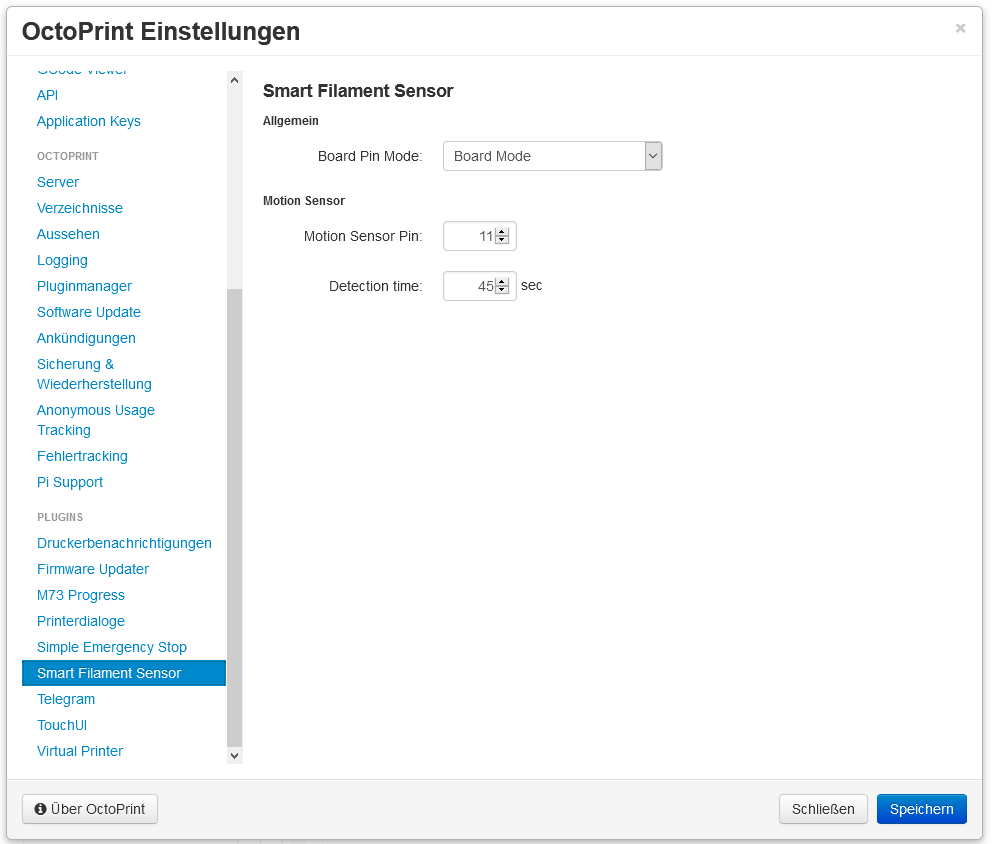
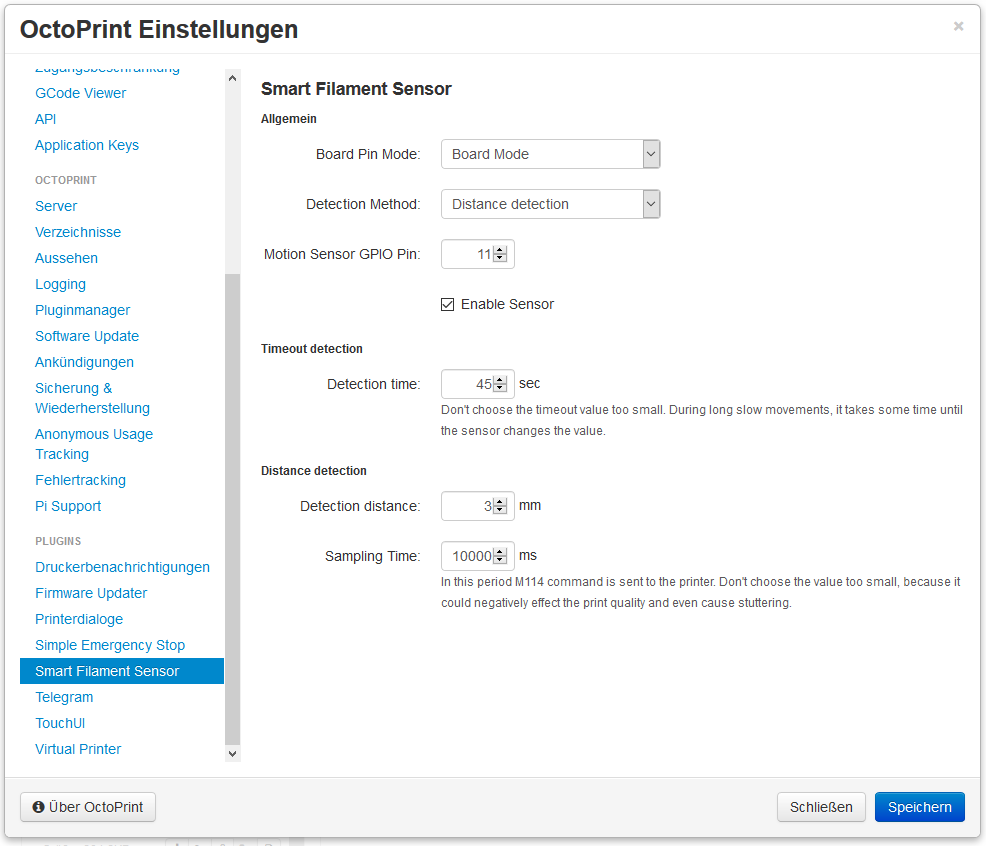
Update description and picture for plugin smart-filament-sensor (#672)
* smartfilamentsensor: Updated plugin description and picture
* Reverted changed date

diff --git a/_plugins/smartfilamentsensor.md b/_plugins/smartfilamentsensor.md
@@ -108,6 +108,8 @@ This plugin can use the GPIO.BOARD or GPIO.BCM numbering scheme.
 * Configurable GPIO pins.
 * Support movement detection sensors, e.g. Smart-Filament-Sensor.
 * Detect if filament is not moving anymore (jammed or runout)
+    * Detection based on timeout
+    * Detection based on filament position returned bei M114 (unfortunately imprecise compared with firmware)
 
 ## Installation
 
@@ -117,12 +119,33 @@ This plugin can use the GPIO.BOARD or GPIO.BCM numbering scheme.
 After installation a restart of Octoprint is recommended.
 
 ## Configuration
+### GPIO Pin
+* Choose any free GPIO pin you for data usage, but I would recommend to use GPIO pins without special functionalities like e.g. I2C
+* Run the sensor only on 3.3V, because GPIO pins don't like 5V for a long time
+
 ### Detection time
 Currently it is necessary to configure a maximum time period no filament movement was detected. This time could be depended on the print speed and maximum print line length. For the beginning - until I figured out how to estimate the best detection time - you can run a test print and messearue your maximum time and configure this value.
 The default value 45 seconds was estimated on max. print speed 10mm/s, for faster prints it could be smaller.
+
+### Detection distance
+Version 1.1.0 of this plugin detects the movement depending on the moved distance. Therefore it is necessary to configure a distance without movement being detected. In Marlin Firmware the default value is set to 7mm. According to this the value is set for the plugin.
+
+### Sampling time
+To reduce the negative effects on the print quality a sampling time must be set. Periodically M114 code is sent to the printer to receive the current filament position. This increases the load on the printer, i.e. if the sampling time is set to small the printer starts stuttering, because it cannot process all commands fast enough. I  assume the value could differ according to the mainboard architecture (8-bit or 32-bit).
 
 ### Octoprint - Firmware & Protocol
 Since currently GCode command M600 is used to interrupt the print, it is recommended to add M600 to the setting "Pausing commands".
 
 ### Octoprint - GCode Scripts
 If you do not want that the print is paused right on your print, I recommend to add a GCode Script for "After print job is paused". Also adding GCode script "Before print job is resumed" might be useful, in the case you hit the heatbed or print head during the change of the filament or removing the blockage.
+
+## Disclaimer
+* I as author of this plugin am not responsible for any damages on your print or printer. As user you are responsible for a sensible usage of this plugin.
+* Be cautious not to damage your Raspberry Pi, because of wrong voltage. I don't take any responsibility for wrong wiring.
+
+## Outlook
+Support of multiple sensors for multiextruders like 4 channel kraken hotend
+
+## Contact
+* [Issues](https://github.com/maocypher/Octoprint-Smart-Filament-Sensor/issues)
+* [Slack](https://maocypher.slack.com/archives/C01DG7C82UW)
